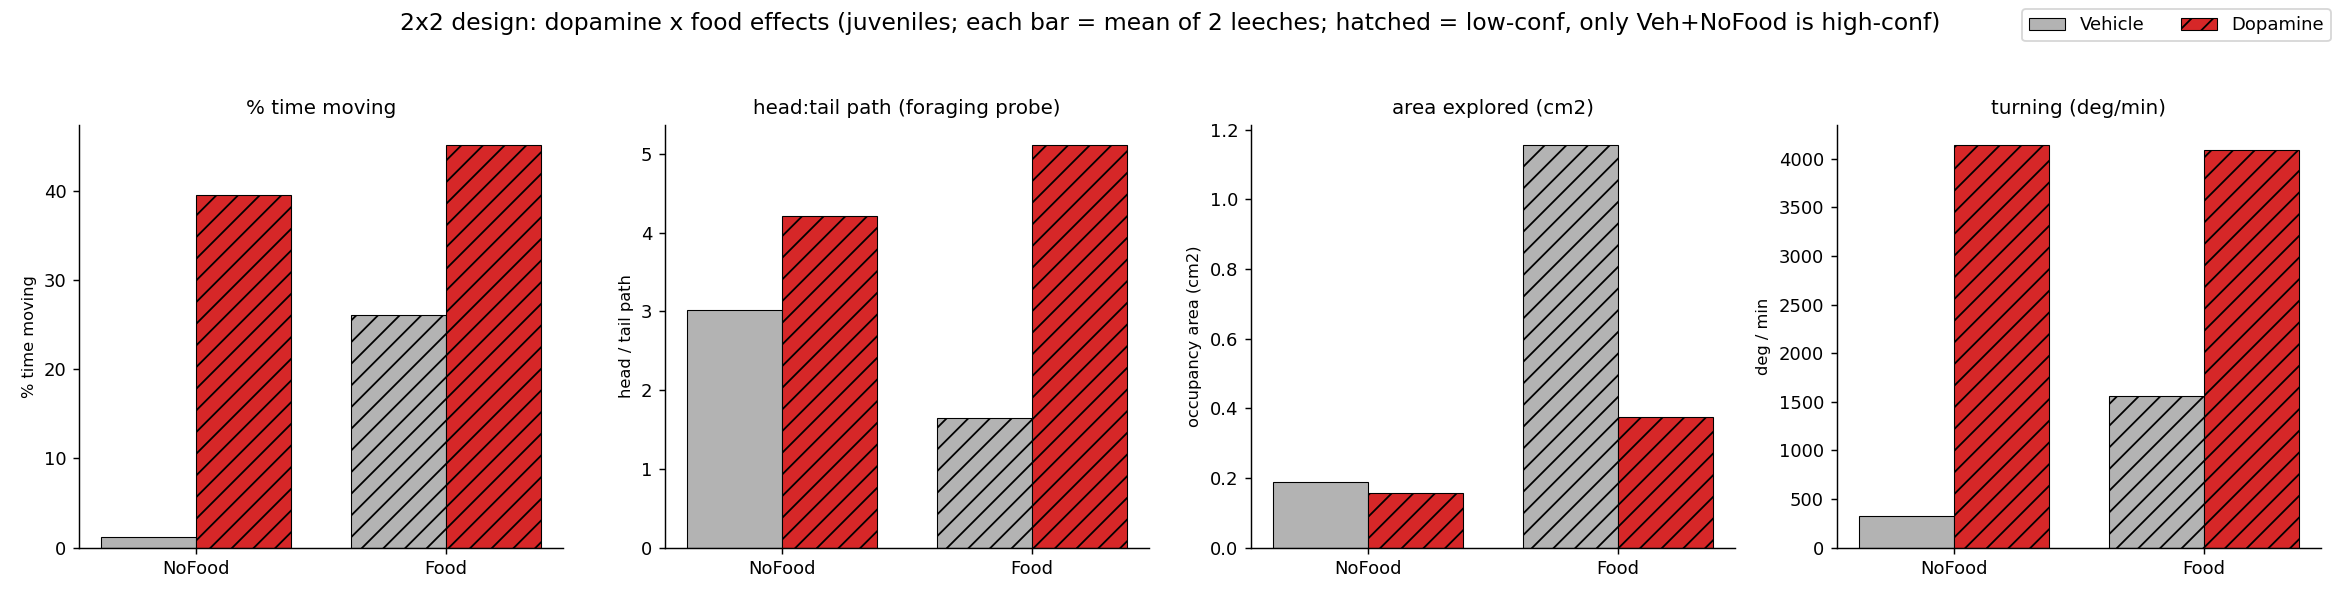
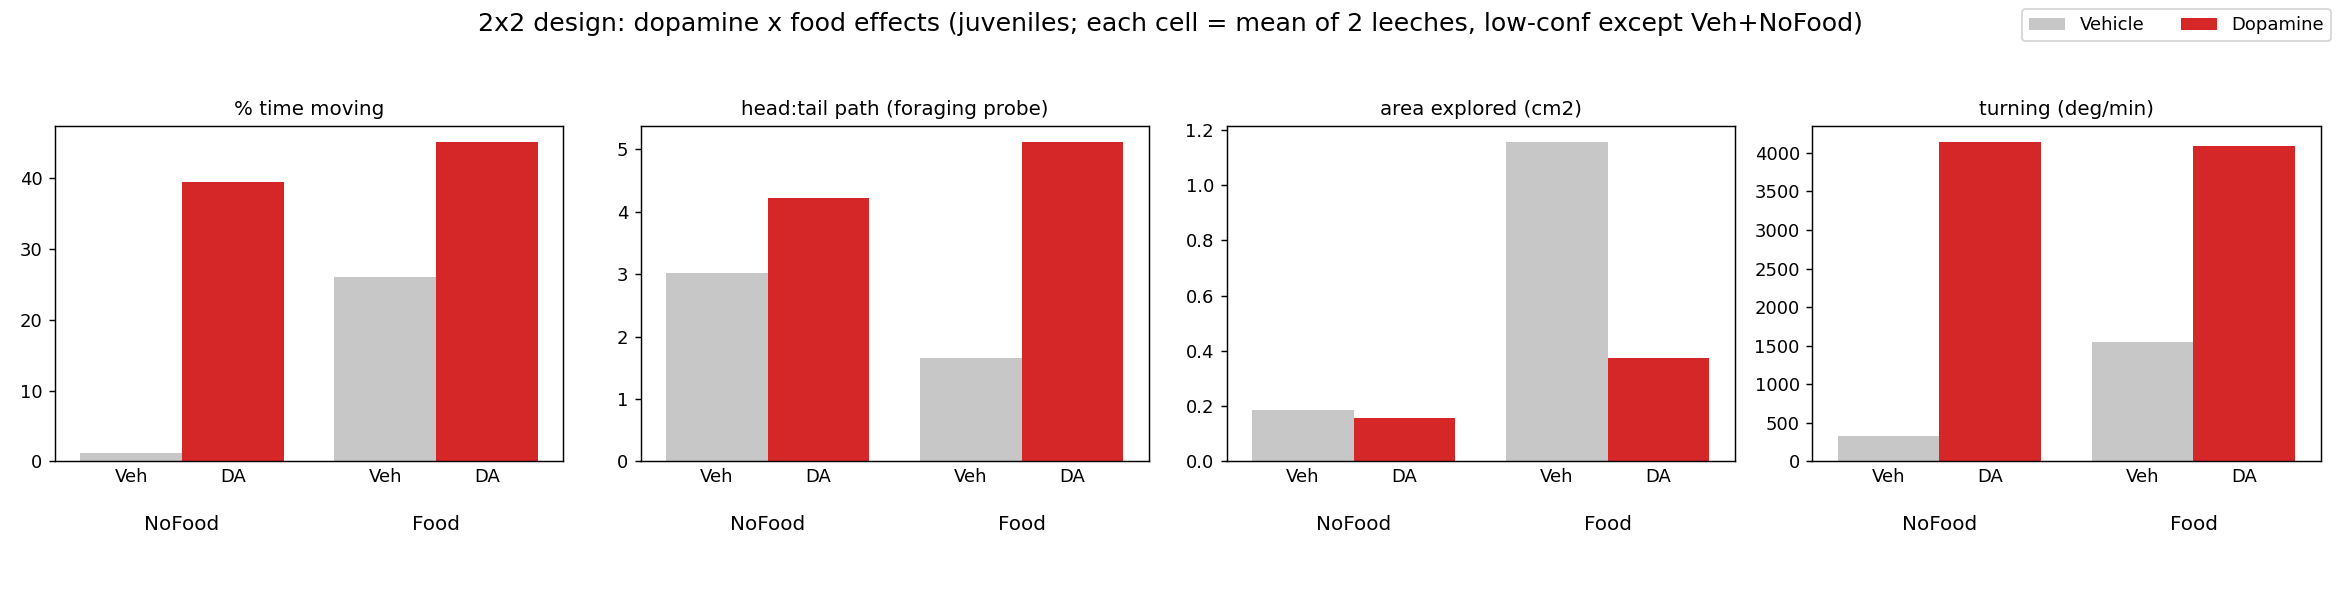
Match juvenile 2x2 figure style to the adult design_2x2_effects
Same layout as analysis_fed_leech: no bar edges/hatching, light-grey Veh and red
DA, touching Veh/DA pairs, two-level x-axis (Veh/DA per bar + NoFood/Food group
labels), full box spines, no y-axis labels. Title keeps the juvenile-specific
note that only Veh+NoFood is high-confidence.

diff --git a/leech/special_project/analysis_juvenile/scripts/design_2x2.py b/leech/special_project/analysis_juvenile/scripts/design_2x2.py
@@ -26,7 +26,7 @@ CELL = {
     "Veh+Food":   ("Veh", "Food"),
 }
 LOWCONF_CELLS = {"Dopamine", "DA+Food", "Veh+Food"}   # all but Veh+NoFood
-VEH_C, DA_C = "0.7", "#d62728"
+VEH_C, DA_C = "0.78", "#d62728"
 
 
 def base_treat(s):
@@ -57,35 +57,36 @@ PANELS = [
     (turning, "turning (deg/min)", "deg / min"),
 ]
 
+# style matched to the adult analysis_fed_leech 2x2: two groups (NoFood, Food),
+# within each a touching Veh/DA pair, no bar edges/hatching, two-level x labels,
+# full box spines, no y-axis label.
 foods = ["NoFood", "Food"]
-x = np.arange(len(foods))
-w = 0.38
+centers = np.array([0.0, 1.0])
+w = 0.4
 
 fig, axes = plt.subplots(1, 4, figsize=(18, 4.6))
 for ax, (data, title, ylab) in zip(axes, PANELS):
     for di, (drug, col) in enumerate([("Veh", VEH_C), ("DA", DA_C)]):
-        vals, hatches = [], []
+        vals = []
         for food in foods:
-            # find the base treatment matching this (drug, food) cell
             name = next(n for n, c in CELL.items() if c == (drug, food))
             vals.append(data.get(name, np.nan))
-            hatches.append("//" if name in LOWCONF_CELLS else "")
-        bars = ax.bar(x + (di - 0.5) * w, vals, w,
-                      color=col, label="Vehicle" if drug == "Veh" else "Dopamine",
-                      edgecolor="k", linewidth=0.6)
-        for b, h in zip(bars, hatches):
-            b.set_hatch(h)
-    ax.set_xticks(x)
-    ax.set_xticklabels(foods)
+        ax.bar(centers + (di - 0.5) * w, vals, w, color=col,
+               label="Vehicle" if drug == "Veh" else "Dopamine")
+    ax.set_xlim(-0.5, 1.5)
+    ax.set_xticks([centers[0] - w / 2, centers[0] + w / 2,
+                   centers[1] - w / 2, centers[1] + w / 2])
+    ax.set_xticklabels(["Veh", "DA", "Veh", "DA"])
+    ax.tick_params(axis="x", length=0)
+    ax.text(0.25, -0.16, "NoFood", transform=ax.transAxes, ha="center", va="top", fontsize=11)
+    ax.text(0.75, -0.16, "Food", transform=ax.transAxes, ha="center", va="top", fontsize=11)
     ax.set_title(title, fontsize=11)
-    ax.set_ylabel(ylab, fontsize=9)
-    ax.spines[["top", "right"]].set_visible(False)
 
 handles, labels = axes[0].get_legend_handles_labels()
 fig.legend(handles, labels, loc="upper right", frameon=True, ncol=2)
-fig.suptitle("2x2 design: dopamine x food effects (juveniles; each bar = mean of 2 leeches; "
-             "hatched = low-conf, only Veh+NoFood is high-conf)", fontsize=13)
-fig.tight_layout(rect=[0, 0, 1, 0.94])
+fig.suptitle("2x2 design: dopamine x food effects (juveniles; each cell = mean of 2 leeches, "
+             "low-conf except Veh+NoFood)", fontsize=14)
+fig.tight_layout(rect=[0, 0.04, 1, 0.94])
 fig.savefig(f"{OUT}/design_2x2_effects.png", dpi=130)
 plt.close(fig)
 print("wrote design_2x2_effects.png")
